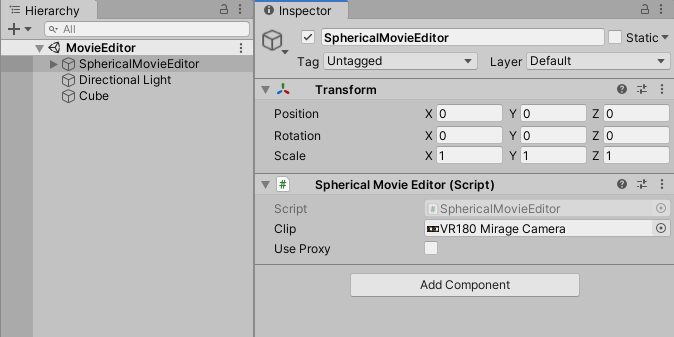
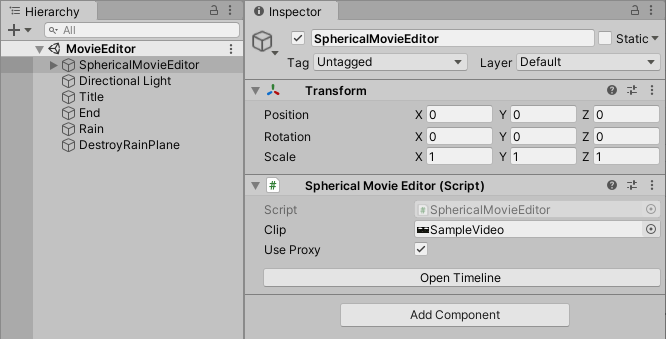
REAME を更新

diff --git a/README.md b/README.md
@@ -41,14 +41,15 @@ VR180 の場合は、Google の [VR180 Creator](https://arvr.google.com/vr180/ap
 
 ![SMEInspector](doc/SMEInspector.png)
 
-| 名称      | 機能                                                         |
-| --------- | ------------------------------------------------------------ |
-| Clip      | 立体物を追加したい動画をセットします                         |
-| Use Proxy | 低解像度のプロキシ動画を作成し、プレビュー再生やタイムラインでのスクラブ時に使用します。エクスポート時はオリジナルの動画が自動的に使用されます。 |
+| 名称          | 機能                                                         |
+| ------------- | ------------------------------------------------------------ |
+| Clip          | 立体物を追加したい動画をセットします                         |
+| Use Proxy     | 低解像度のプロキシ動画を作成し、プレビュー再生やタイムラインでのスクラブ時に使用します。エクスポート時はオリジナルの動画が自動的に使用されます。 |
+| Open Timeline | 専用の Timeline を開きます。                                 |
 
 ### 立体物の追加
 
-シーンにオブジェクトを追加します。Timeline/Video Composition タイムライン上で制御すると、想定通りに出力されやすくなります。
+シーンにオブジェクトを追加します。上記ボタンで開ける Timeline で制御すると、想定通りに出力されやすくなります。
 
 ### VR でのプレビュー
 
@@ -74,6 +75,8 @@ Movie メニューから Export... を選択すると次のウインドウが現
 | Codec               | コーデックを指定します。NVENC を使用するには、対応する GPU が必要です。 |
 | CRF                 | 画質を指定します。小さくするほど画質が上がり、大きくするほど画質が下がります。H.264 では 23、H.265 では 28 が標準です。NVENC では無視されます。 |
 | File Name           | 出力するファイルの名前を指定します。拡張子は自動で付加されます。 |
+| **Behaviour**       |                                                              |
+| Frame Timeout       | 読み込めない動画フレームがある場合に無視するまでの秒数。     |
 | Capture and Encode  | 動画の出力を開始します。                                     |
 | Encode Only         | 既にキャプチャされている連番画像とオリジナルの動画ファイルを使って動画をエンコードします。コーデックや CRF のみを変えて試したい時に、キャプチャし直さなくて良いため高速です。 |
 
@@ -85,7 +88,9 @@ Movie メニューから Export... を選択すると次のウインドウが現
 
 ### キャプチャが始まらないんじゃが？
 
-しばらく待って下さい。5秒間キャプチャが進まないことを検出すると、強制的に次のフレームへ移動し、これを繰り返します。その様子はコンソールで確認できます。原因不明ですが、動画によっては先頭の数フレームを読み込めないことがあるようです。1フレーム目がキーフレームじゃない場合がある、とか…？（そんな事あるんか？）
+しばらく待って下さい。キャプチャが進まないことを検出すると、強制的に次のフレームへ移動し、これを繰り返します。その様子はコンソールで確認できます。原因不明ですが、動画によっては先頭の数フレームを読み込めないことがあるようです。1フレーム目がキーフレームじゃない場合がある、とか…？（そんな事あるんか？）
+
+スキップまでの秒数は上記ウインドウで設定できます。
 
 ## Licenses
 
